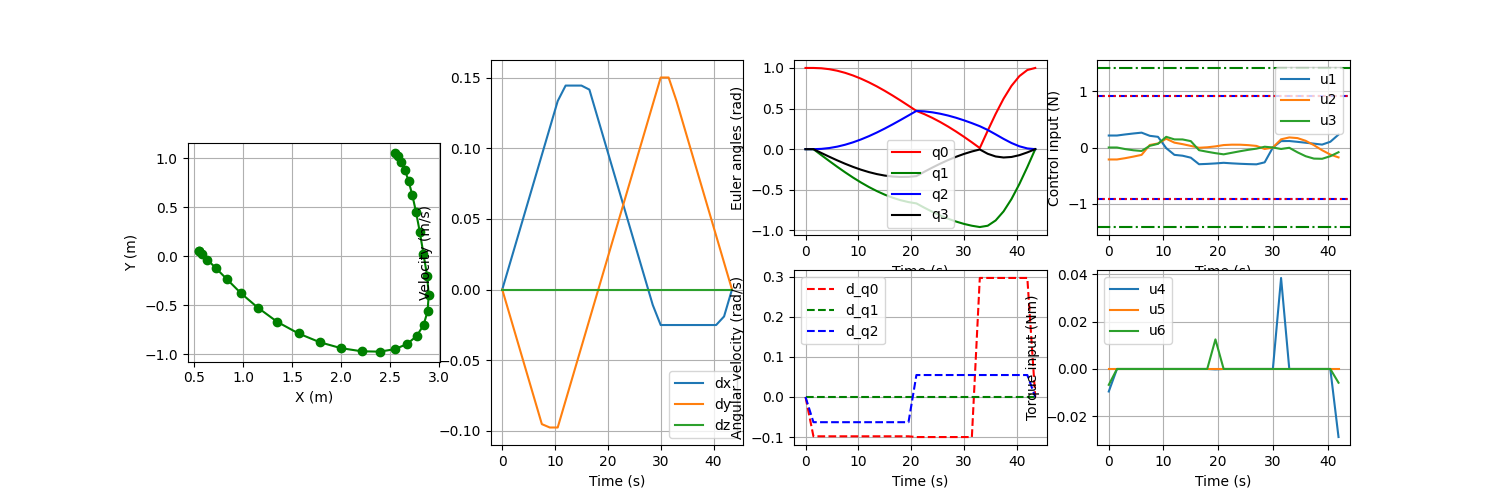
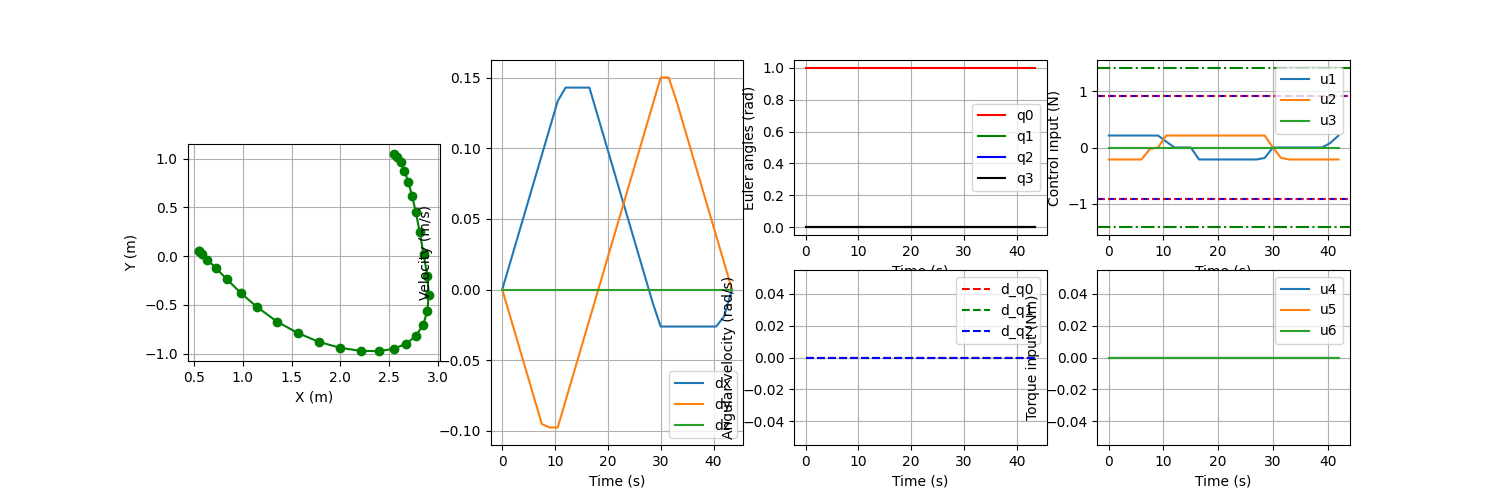
fixed frame conversions in fbl controller planner

diff --git a/stl_mapping/Planning/main.py b/stl_mapping/Planning/main.py
@@ -40,20 +40,20 @@ X0 = HyperRectangle(np.array([0.5, 0, 0]), np.array([0.6, 0.1, 0.1]))
 Xf = HyperRectangle(np.array([2.5, 1.0, 0]), np.array([2.6, 1.1, 0.1]))
 # XA = HyperRectangle(np.array([2.5, -1.0, 0,  -np.pi/2-np.pi/8]), np.array([2.6, -0.9, 0.1,  -np.pi/2+np.pi/8]))
 # later converted to polytopes for predicates of the form Ax \leq b: Polytope = (A,b)
-# XA = HyperRectangle(np.array([2.5, -1.0, 0]), np.array([2.6, -0.9, 0.1]))
-XA = HyperRectangle(np.array([2.5, -1.0, 0,  -np.pi/2-np.pi/8, -np.pi/2-np.pi/8]), np.array([2.6, -0.9, 0.1,  -np.pi/2+np.pi/8, -np.pi/2+np.pi/8]))
+XA = HyperRectangle(np.array([2.5, -1.0, 0]), np.array([2.6, -0.9, 0.1]))
+# XA = HyperRectangle(np.array([2.5, -1.0, 0,  -np.pi/2-np.pi/8, -np.pi/2-np.pi/8]), np.array([2.6, -0.9, 0.1,  -np.pi/2+np.pi/8, -np.pi/2+np.pi/8]))
 Obs = []
 World = HyperRectangle(np.array([0, -1.5, -10, -10]), np.array([4, 1.5, 10, 10]))
 phi = Pred("AND", preds=[
     Pred("G", [t0,t0], preds=[Pred("MU", preds=[Polytope(X0)], dims=[0,1,2])]),
     Pred("G", [tf,tf], preds=[Pred("MU", preds=[Polytope(Xf)], dims=[0,1,2])]),
-    Pred("F", [t0,tf], preds=[Pred("MU", preds=[Polytope(XA)], dims=[0,1,2, 3, 5])]),
+    Pred("F", [t0,tf], preds=[Pred("MU", preds=[Polytope(XA)], dims=[0,1,2])]),
     Pred("G", [t0,tf], preds=[Pred("MU", preds=[Polytope(World)], dims=[0,1,6,7])]),
 ])
 spec = Spec(phi, t0, tf)
 
 # Initial Motion planner on Linear Model
-if True:
+if False:
     opt = gp.Model("prob1")
     x_vars = opt.addMVar((N, sp_robot.n_x), lb=-np.inf, ub=np.inf, name="X")
     u_vars = opt.addMVar((N-1, sp_robot.n_u), lb=-np.inf, ub=np.inf, name="U")
@@ -146,9 +146,14 @@ plot_planning_results(sp_robot, t_sp, x_ff, u_ff, X0, Xf, [XA], Obs, alpha=alpha
 
 np.savez('stl_mapping/Planning/solutions/sp_solution_nl.npz', x_ff=x_ff, u_ff=u_ff, dt=dt, alpha=alpha, times=t_sp)
 
-#TODO: 1. this is a valid conversion (Lin to non-lin) if the system (with zero roll) is differentially flat
+#TODO: 1. this is a valid conversion (Lin to non-lin) if the system (with zero roll) is differentially flat?
 #TODO:    this means that this linear decoupling is valid, and x_ff and u_ff are valid for the nonlinear space robot
 #TODO:    CHECK THIS!
+
+
+
+
+
 
 
 
@@ -160,6 +165,9 @@ sp_robot_nl = FreeFlyer()
 
 #TODO: 1. fix the BlueRov model such that it behaves equal to David's model (yaw and pitch seem wrong)
 #TODO: 2. fix frame conversions for feedback linearization (below)
+R_frd_to_flu = R.from_quat(np.array([0, 1, 0, 0]), scalar_first=True) # 180 degrees rotation around x
+R_enu_to_ned = R.from_quat((1/np.sqrt(2))*np.array([0, 1, 1, 0]), scalar_first=True) # 90 degrees rotation around z
+
 def u_fbl(x, u):
     '''
     Feedback linearization control for the underwater robot
@@ -169,57 +177,75 @@ def u_fbl(x, u):
     Returns:
         u_fbl: control input for the space robot in ENU body frame
     '''
-    R_enu_to_ned = R.from_quat(np.array([0, 1, 0, 0]), scalar_first=True) # 180 degrees rotation around x
-    R_flu_to_frd = R.from_matrix(np.array([[0, 1, 0], [1, 0, 0], [0, 0, -1]])) # 90 degrees rotation around z
-
-    #! Convert [p: ENU, q:FLU->ENU, v:ENU, w:FLU] to [p: NED, q:FRD->NED, v:FRD, w:FRD]
-    from Utilities.rotations import q_enu_to_q_ned, quat_mult
     p, q, v, w = x[:3], x[3:7], x[7:10], x[10:13]
-    p_ned = np.array([p[1], p[0], -p[2]])
-    q_ned = np.array([q[0], q[1], q[2], -q[3]])
-    # q_R = R.from_quat(q, scalar_first=True)
-    # q_ned = R_enu_to_ned * q_R * R_flu_to_frd
-    # q_ned = q_ned.as_quat(scalar_first=True)  # convert to quaternion
-    print(f"p_ned: {p_ned}, q_ned: {q_ned}")
-    v_ned = np.array([v[1], v[0], -v[2]])
-    v_frd = R.from_quat(q_ned, scalar_first=True).apply(v_ned)
-    w_frd = np.array([w[1], w[0], -w[2]])
-    x_ned = np.concatenate((p_ned, q_ned, v_frd, w_frd))
+    R_q = R.from_quat(q, scalar_first=True)
 
     fx_sp = sp_robot_nl.calculate_fx(x)
     gx_sp = sp_robot_nl.calculate_gx(x)
     dx_sp = fx_sp + gx_sp@u
-    #! Now [dp: NED, dq:FRD->NED, dv:FRD, dw:FRD] to [dp: ENU, dq:FLU->ENU, dv:FLU, dw:FLU]
+
+    from Utilities.rotations import quat_mult_np
+    #! Now [dp: ENU, dq:FLU->ENU, dv: ENU, dw:FLU] to [dp: NED, dq:FRD->NED, dv:FRD, dw:FRD] 
     dp, dq, dv, dw = dx_sp[:3], dx_sp[3:7], dx_sp[7:10], dx_sp[10:13]
-    dp_enu = np.array([dp[1], dp[0], -dp[2]])
-    dq_enu = np.array([dq[0], dq[1], dq[2], -dq[3]])
-    dv_enu = np.array([dv[1], dv[0], -dv[2]])
-    dw_enu = np.array([dw[1], dw[0], -dw[2]])
-    dx_sp_enu = np.concatenate((dp_enu, dq_enu, dv_enu, dw_enu))
+    dp_ned = np.array([dp[1], dp[0], -dp[2]])
+    dq_ned = 1/np.sqrt(2) * np.array([dq[0] + dq[3], dq[1] + dq[2], dq[1] - dq[2], dq[0] - dq[3]])
+    dv_flu = R_q.inv().apply(dv)
+    dv_frd = np.array([dv_flu[0], -dv_flu[1], -dv_flu[2]])
+    dw_frd = np.array([dw[0], -dw[1], -dw[2]])
+    dx_sp_ned = np.concatenate((dp_ned, dq_ned, dv_frd, dw_frd))
+
+    #! Convert [p: ENU, q:FLU->ENU, v:ENU, w:FLU] to [p: NED, q:FRD->NED, v:FRD, w:FRD]
+    p, q, v, w = x[:3], x[3:7], x[7:10], x[10:13]
+    p_ned = np.array([p[1], p[0], -p[2]])
+    q_ned = 1/np.sqrt(2) * np.array([q[0] + q[3], q[1] + q[2], q[1] - q[2], q[0] - q[3]])
+    q_ned = q_ned / np.linalg.norm(q_ned)  # normalize quaternion
+    v_flu = R_q.inv().apply(v)
+    v_frd = np.array([v_flu[0], -v_flu[1], -v_flu[2]])
+    w_frd = np.array([w[0], -w[1], -w[2]])
+    x_ned = np.concatenate((p_ned, q_ned, v_frd, w_frd))
 
     fx_uw = uw_robot.calculate_fx(x_ned)
     gx_uw = uw_robot.calculate_gx(x_ned)
-    u_fbl = np.linalg.pinv(gx_uw)@(dx_sp_enu - fx_uw)
+    u_fbl = np.linalg.pinv(gx_uw)@(dx_sp_ned - fx_uw)
     print(f"u: {u}, u_fbl: {u_fbl}")
     return u_fbl
 
-# x_test = np.array([0.5, 0, 0, 1, 0, 0, 0, 
-#                    1, 0, 0, 
-#                    0, 0, 0])
-# u_test = np.array([0, 0, 0, 0, 0, 0])
-# u_fbl_test = u_fbl(x_test, u_test)
 
-x = copy.deepcopy(x_ff[0, :])
+x_ff = copy.deepcopy(x_ff[0, :])
+#! Convert [p: ENU, q:FLU->ENU, v:ENU, w:FLU] to [p: NED, q:FRD->NED, v:FRD, w:FRD]
+p, q, v, w = x_ff[:3], x_ff[3:7], x_ff[7:10], x_ff[10:13]
+p_ned = np.array([p[1], p[0], -p[2]])
+q_ned = 1/np.sqrt(2) * np.array([q[0] + q[3], q[1] + q[2], q[1] - q[2], q[0] - q[3]])
+q_ned = q_ned / np.linalg.norm(q_ned)  # normalize quaternion
+v_flu = R.from_quat(q, scalar_first=True).inv().apply(v)
+v_frd = np.array([v_flu[0], -v_flu[1], -v_flu[2]])
+w_frd = np.array([w[0], -w[1], -w[2]])
+x_uw = np.concatenate((p_ned, q_ned, v_frd, w_frd))
+
 x_uw_fbl_sp = np.zeros((N, sp_robot_nl.n_x))
-x_uw_fbl_sp[0, :] = x
+x_uw_fbl_sp[0, :] = x_uw
 u_uw_fbl_sp = np.zeros((N, sp_robot_nl.n_u))
 for i in range(N-1):
-    u = u_fbl(x, u_ff[i, :])
-    x = uw_robot.step(x, u, dt)
-    x = np.array(x).squeeze()
-    u = np.array(u).squeeze()
-    x_uw_fbl_sp[i+1, :] = x
-    u_uw_fbl_sp[i, :] = u
+    #! Convert [p: NED, q:FRD->NED, v:FRD, w:FRD] to [p: ENU, q:FLU->ENU, v:ENU, w:FLU]
+    p, q, v, w = x_uw[:3], x_uw[3:7], x_uw[7:10], x_uw[10:13]
+    R_q = R.from_quat(q, scalar_first=True)
+    p_enu = np.array([p[1], p[0], -p[2]])
+    q_enu = 1/np.sqrt(2) * np.array([q[0] + q[3], q[1] + q[2], q[1] - q[2], q[0] - q[3]])
+    q_enu = q_enu / np.linalg.norm(q_enu)  # normalize quaternion
+    v_ned = R_q.apply(v)
+    v_enu = np.array([v_ned[1], v_ned[0], -v_ned[2]])
+    w_enu = np.array([w[0], -w[1], -w[2]])
+    x_ff = np.concatenate((p_enu, q_enu, v_enu, w_enu))
+
+    #TODO: x into u_fbl should be in FF frame convention
+    #TODO: x into the step function should be in BR frame convention
+    u_uw = u_fbl(x_ff, u_ff[i, :])
+    x_uw = uw_robot.step(x_uw, u_uw, dt)
+    # re-normalize the quaternion
+    x_uw[3:7] /= np.linalg.norm(x_uw[3:7])
+    print(f"q: {x_uw[3:7]}")
+    x_uw_fbl_sp[i+1, :] = x_uw
+    u_uw_fbl_sp[i, :] = u_uw
 
 # plot the trajectory
 plot_planning_results(uw_robot, t_sp, x_uw_fbl_sp, u_uw_fbl_sp, X0, Xf, [XA], Obs, alpha=alpha,
@@ -231,16 +257,16 @@ print(f"\nAlpha if u_fbl(x_sp,u_sp) applied to BlueROV directly: {np.max(u_max/u
 print(f"This is lower because BlueROV is faster than free flyer")
 print(f"U should become {np.max(u_max)/alpha} for same alpha (was {uw_robot.U.upper_bounds[0]}) which is {(np.max(u_max)/alpha)/uw_robot.U.upper_bounds[0]*100}%")
 
-# So now we have to find \phi (for now deltaT) such that
-# alpha for uw is equal to alpha for the free flyer
-# we have bilinear constraints so that is quite tricky but
-# we have good initial guesses regarding obstacle avoidance
 
-def u_fbl_cs(x, v):
-    fx_uw = uw_robot.fx(x)
-    gx_uw = uw_robot.gx(x)
-    u_fbl = cs.mtimes(cs.pinv(gx_uw), sp_robot_nl.fx(x) + cs.mtimes(sp_robot_nl.gx(x),v) - fx_uw)
-    return u_fbl
+
+
+
+
+
+
+
+
+
 
 #TODO: now we either solve the time-scaling of trajectory and control input
 #TODO: or we solve the optimization problem to make alpha equal, we need to figure out what is warranted
@@ -259,25 +285,23 @@ if True:
 
     ocp.set_initial(x_vars, x_uw_fbl_sp.T)
     ocp.set_initial(u_vars, u_uw_fbl_sp.T)
-    ocp.set_initial(dt_vars, 0.02)
+    ocp.set_initial(dt_vars, 0.5)
 
     ocp.subject_to(dt_vars >= 0)
     ocp.subject_to(delta >= 0)
 
     for i in range(N):
-        # ocp.subject_to(u_fbl_cs(x_vars[:,i],u_vars[:,i])[0:2] >= alpha*(uw_robot.U.lower_bounds[0:2]))
-        # ocp.subject_to(u_fbl_cs(x_vars[:,i],u_vars[:,i])[0:2] <= alpha*(uw_robot.U.upper_bounds[0:2]))
-        ocp.subject_to(u_vars[:,i] >= alpha * uw_robot.U.lower_bounds)
-        ocp.subject_to(u_vars[:,i] <= alpha * uw_robot.U.upper_bounds)
-        # ocp.subject_to(u_vars[:,i] >= alpha * u_fbl_cs(x_vars[:,i],uw_robot.U.lower_bounds))
-        # ocp.subject_to(u_vars[:,i] <= alpha * u_fbl_cs(x_vars[:,i],uw_robot.U.upper_bounds))
+        # ocp.subject_to(u_vars[:,i] >= alpha * uw_robot.calculate_U_effective(x_vars[:,i]).lower_bounds)
+        # ocp.subject_to(u_vars[:,i] <= alpha * uw_robot.calculate_U_effective(x_vars[:,i]).upper_bounds)
+        ocp.subject_to(u_vars[:,i] >= u_fbl_cs(x_vars[:,i], alpha*uw_robot.calculate_U_effective(x_vars[:,i]).lower_bounds).squeeze())
+        ocp.subject_to(u_vars[:,i] <= u_fbl_cs(x_vars[:,i], alpha*uw_robot.calculate_U_effective(x_vars[:,i]).upper_bounds).squeeze())
 
     # constraints
     for i in range(N-1):
         ocp.subject_to(x_vars[:,i+1] == uw_robot.step(x_vars[:,i], u_vars[:,i], dt_vars))
     
     # enforce position equality with the free flyer
-    n_equal = 7 # first n_equal states 
+    n_equal = 7 # first n_equal states: [p,q]
     for i in range(N):
         # ocp.subject_to(x_vars[0:n_equal,i] == x_uw_fbl_sp[i,0:n_equal])
         ocp.subject_to(x_vars[0:n_equal,i] <= x_uw_fbl_sp[i,0:n_equal] + delta* np.ones(n_equal))

diff --git a/stl_mapping/Utilities/Robots.py b/stl_mapping/Utilities/Robots.py
@@ -124,11 +124,10 @@ class LinearFreeFlyer6DoF(Robot):
         max_torque = 0.714
         scale_thrust = 2/3
         scale_torque = 1/3
-        u_max = np.concatenate([
-            np.array([max_thrust]*3) * scale_thrust,
-            np.array([max_torque]*3) * scale_torque
-        ])
-        self.U = HyperRectangle(-u_max, u_max)
+        self.U = HyperRectangle(
+            np.array([-scale_thrust*max_thrust]*3 + [-scale_torque*max_torque]*3),
+            np.array([scale_thrust*max_thrust]*3 + [scale_torque*max_torque]*3)
+        )
         max_floor_force = (36*self.mass)/1000
         self.D = HyperRectangle(np.array(3*[-max_floor_force]),np.array(3*[max_floor_force]))
 
@@ -138,7 +137,6 @@ class LinearFreeFlyer6DoF(Robot):
             self.K@self.D.lower_bounds,
             self.K@self.D.upper_bounds
         )
-
         self.U_effective = self.U.subtract(self.KD)
 
     def calculate_fx(self,x):
@@ -181,15 +179,69 @@ class FreeFlyer(Robot):
         # dynamics in the form: dx = f(x) + g(x)u
         self.mass = 16.8 #(16.8: empty, 17.8: full)  # kg
         self.inertia = np.diag((0.1454, 0.1366, 0.1594))
-        self.max_thrust = 1.
-        self.max_torque = 0.5
-
+        max_thrust = 2.125
+        max_torque = 0.714
+        scale_thrust = 2/3
+        scale_torque = 1/3
         self.U = HyperRectangle(
-            np.array([-self.max_thrust]*3 + [-self.max_torque]*3),
-            np.array([self.max_thrust]*3 + [self.max_torque]*3)
+            np.array([-scale_thrust*max_thrust]*3 + [-scale_torque*max_torque]*3),
+            np.array([scale_thrust*max_thrust]*3 + [scale_torque*max_torque]*3)
         )
+
         self.create_fx()
         self.create_gx()
+        self.create_cx()
+
+        # TODO: deal with the fact that K and D are not of same dimension
+        max_floor_force = (36*self.mass)/1000
+        max_floor_torque = 0.01 #?
+        self.D = HyperRectangle(
+            np.array(3*[-max_floor_force] + 3*[-max_floor_torque]),
+            np.array(3*[max_floor_force] + 3*[max_floor_torque])
+        )
+        self.create_K()
+        self.create_U_effective()
+
+        
+    def create_K(self):
+        if not hasattr(self, '_K_sym'):
+            p = cs.SX.sym('p', 3)
+            q = cs.SX.sym('q', 4)
+            v = cs.SX.sym('v', 3)
+            w = cs.SX.sym('w', 3)
+            self._K_sym = cs.Function('K', [p, q, v, w],
+                [
+                    cs.pinv(self.calculate_gx(cs.vertcat(p, q, v, w))) @ self.calculate_cx(cs.vertcat(p, q, v, w))
+                ]
+            )
+    def calculate_K(self, x):
+        p, q, v, w = x[0:3], x[3:7], x[7:10], x[10:13]
+        if isinstance(p, np.ndarray):
+            return np.array(self._K_sym(p, q, v, w)).reshape((self.n_u, self.n_x))
+        else:
+            return self._K_sym(p, q, v, w)
+
+
+    def create_U_effective(self):
+        if not hasattr(self, '_U_effective_sym'):
+            p = cs.SX.sym('p', 3)
+            q = cs.SX.sym('q', 4)
+            v = cs.SX.sym('v', 3)
+            w = cs.SX.sym('w', 3)
+            self._U_effective_sym = cs.Function('U_effective', [p, q, v, w],
+                [
+                    self.U.lower_bounds - self._K_sym(p, q, v, w)@self.D.lower_bounds,
+                    self.U.upper_bounds - self._K_sym(p, q, v, w)@self.D.upper_bounds
+                ]
+            )
+    def calculate_U_effective(self, x):
+        p, q, v, w = x[0:3], x[3:7], x[7:10], x[10:13]
+        lb, ub = self._U_effective_sym(p, q, v, w)
+        if isinstance(x, np.ndarray):
+            return HyperRectangle(np.array(lb), np.array(ub))
+        else:
+            return HyperRectangle(lb, ub)
+
 
     def create_fx(self):
         if not hasattr(self, '_fx_sym'):
@@ -220,6 +272,7 @@ class FreeFlyer(Robot):
         else:
             return self._fx_sym(p, q, v, w)
     
+
     def create_gx(self):
         if not hasattr(self, '_gx_sym'):
             p = cs.SX.sym('p', 3)
@@ -248,3 +301,24 @@ class FreeFlyer(Robot):
             return np.array(self._gx_sym(p, q, v, w)).reshape((self.n_x, self.n_u))
         else:
             return self._gx_sym(p, q, v, w)
+        
+
+    def create_cx(self):
+        if not hasattr(self, '_cx_sym'):
+            p = cs.SX.sym('p', 3)
+            q = cs.SX.sym('q', 4)
+            v = cs.SX.sym('v', 3)
+            w = cs.SX.sym('w', 3)
+            cx = cs.SX.zeros((13,6))
+            cx[6:12, :] = cs.SX.eye(6)
+            self._cx_sym = cs.Function('cx', [p, q, v, w],
+                [
+                    cx
+                ]
+            )
+    def calculate_cx(self, x):
+        p, q, v, w = x[0:3], x[3:7], x[7:10], x[10:13]
+        if isinstance(p, np.ndarray):
+            return np.array(self._cx_sym(p, q, v, w)).reshape((self.n_u, self.n_x))
+        else:
+            return self._cx_sym(p, q, v, w)

diff --git a/stl_mapping/Utilities/rotations.py b/stl_mapping/Utilities/rotations.py
@@ -42,6 +42,14 @@ def quat_mult(q1, q2):
             q1[0]*q2[3] + q1[1]*q2[2] - q1[2]*q2[1] + q1[3]*q2[0]
         )
 
+def quat_mult_np(q1, q2):
+    return np.array([
+        q1[0]*q2[0] - q1[1]*q2[1] - q1[2]*q2[2] - q1[3]*q2[3],
+        q1[0]*q2[1] + q1[1]*q2[0] + q1[2]*q2[3] - q1[3]*q2[2],
+        q1[0]*q2[2] - q1[1]*q2[3] + q1[2]*q2[0] + q1[3]*q2[1],
+        q1[0]*q2[3] + q1[1]*q2[2] - q1[2]*q2[1] + q1[3]*q2[0]
+    ])
+
 def v_dot_q(v, q):
     rot_mat = q_to_rot_mat_cs(q)
     return cs.mtimes(rot_mat, v)

diff --git a/stl_mapping/launch/sitl.launch.py b/stl_mapping/launch/sitl.launch.py
@@ -21,7 +21,7 @@ def generate_launch_description():
         PythonLaunchDescriptionSource(
             [get_package_share_directory('discower_launch'), '/px4.launch.py']),
 
-        launch_arguments={'id':'0', 'pose':'1,0,0', 'name':'snap', 'delay':'0'}.items()
+        launch_arguments={'id':'0', 'pose':'1,0,0', 'name':'snap', 'delay':'0', 'model':'atmos'}.items()
         # launch_arguments={'id':'0', 'pose':'1,0,0', 'name':'snap', 'delay':'0', 'world': 'kthspacelab'}.items()
     )
 

diff --git a/stl_mapping/Planning/test_bluerov.py b/stl_mapping/Planning/test_bluerov.py
@@ -83,7 +83,7 @@ def run_simulation(t_span, x0, dt, blueROV:BlueROV):
     data[:nx,0] = x0
     data[nx:,0] = u
 
-    in_ENU = True
+    in_ENU = False
     frame_message_printed = False
 
     for i in range(n_sim-1):

diff --git a/README.md b/README.md
@@ -9,3 +9,13 @@ Numpy, Scipy, Casadi, Gurobi and some basic stuff.
 # Steps
 1. Clone repo
 2. `git submodule init`
+
+# Steps for space
+1. in `PX4-Autopilot`, run command `PX4_UXRCE_DDS_NS=snap make px4_sitl_spacecraft gz_atmos`
+2. start microros with `micro-xrce-dds-agent udp4 -p 8888`
+3. start QGC with `./startQGC`
+
+# Steps for uw
+1. in `PX4-Autopilot`, run command `PX4_UXRCE_DDS_NS=snap make px4_sitl_uuw gz_uuv_bluerov2_heavy`
+2. start microros with `micro-xrce-dds-agent udp4 -p 8888`
+3. start QGC with `./startQGC`
